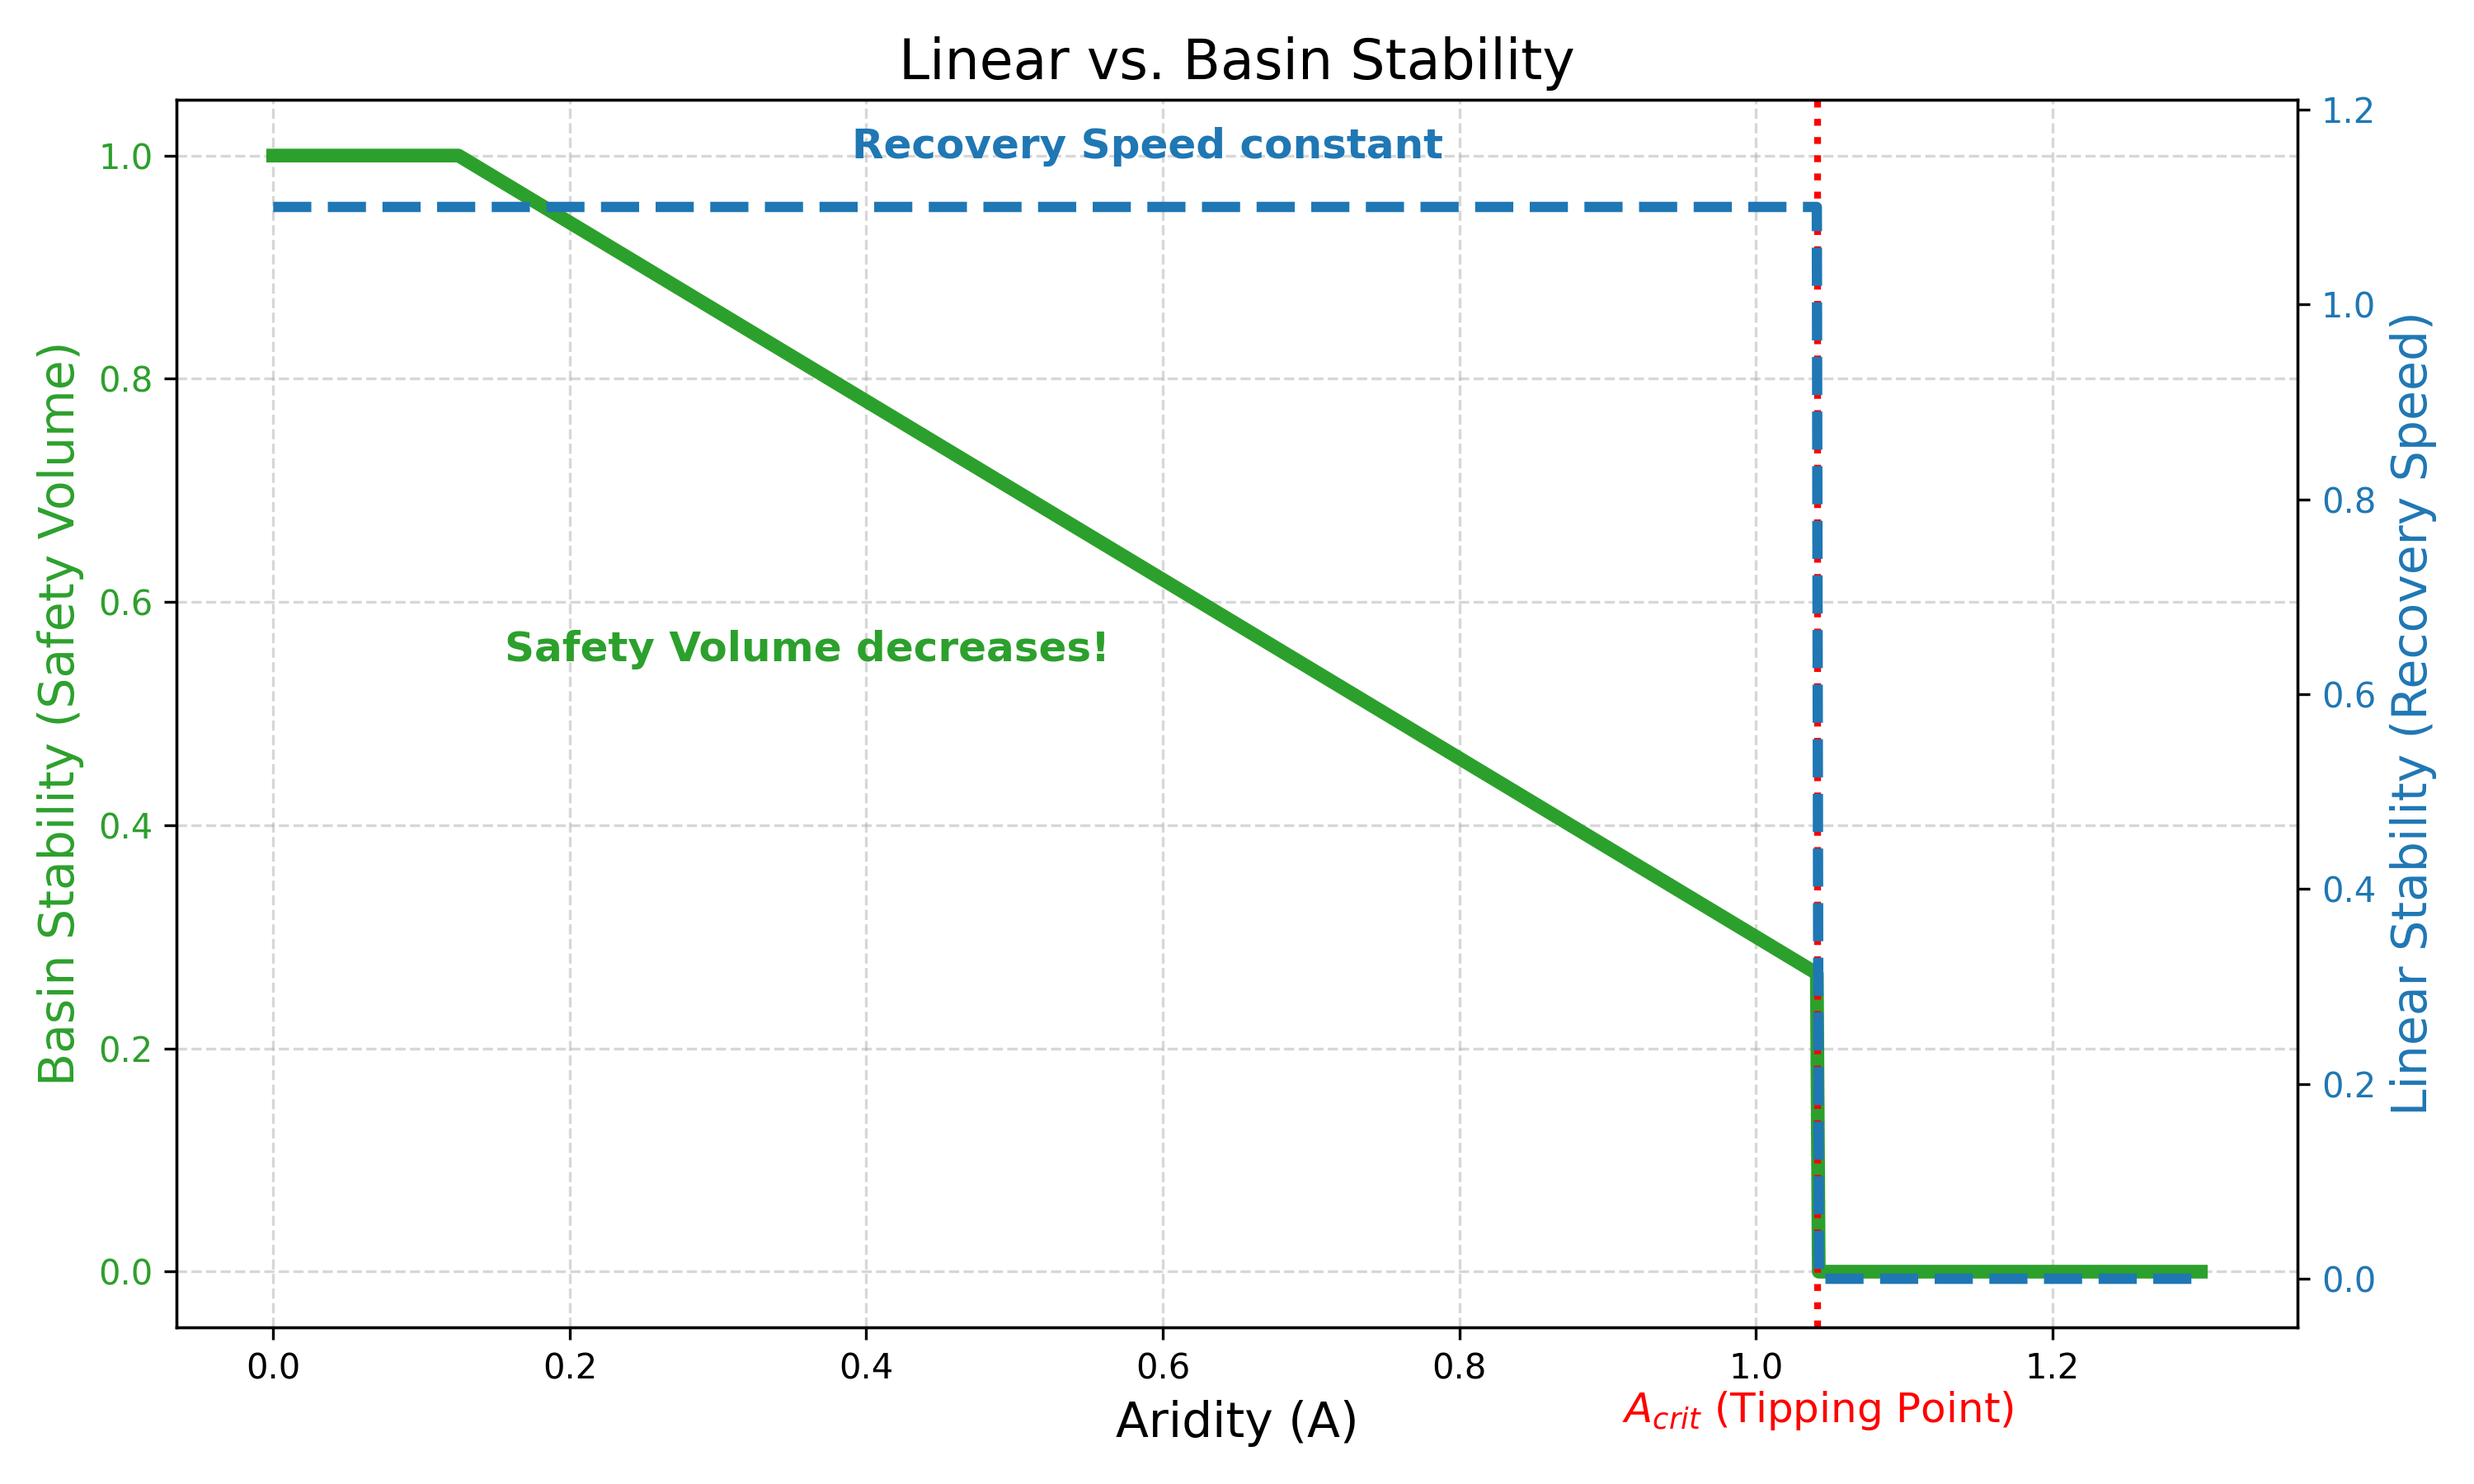
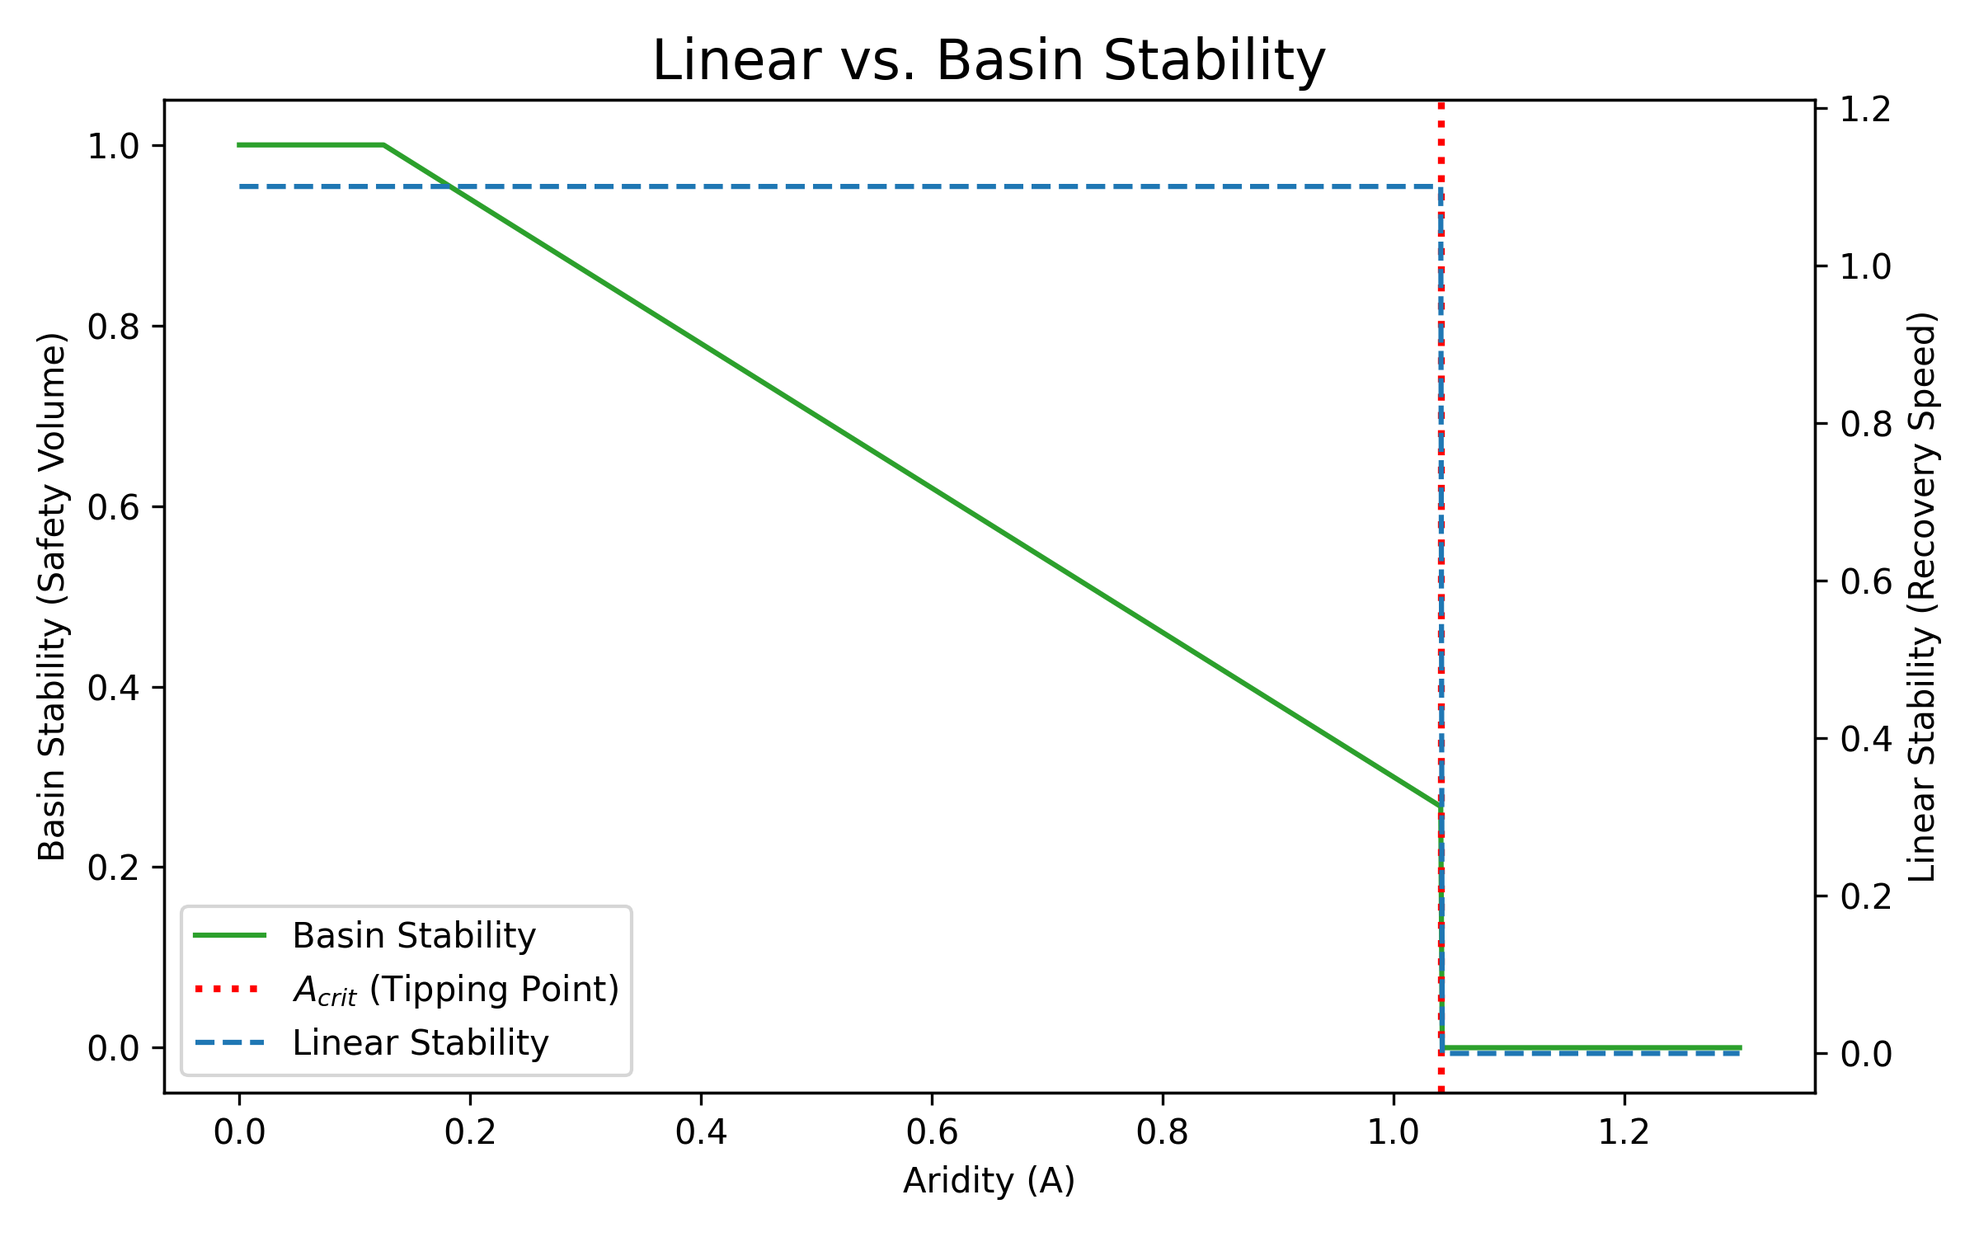
Linear v Basin Plot wie den Rest

diff --git a/src/main.py b/src/main.py
@@ -148,7 +148,7 @@ def make_plot_potential(A_range,C,func_crit,func_potential,A_crit,C_F,colors,xla
     ax.axvline(0, linestyle='--',color='black')
 
     xticks = list(ax.get_xticks()) + [0.0, C_F]
-    xlabels = [*ax.get_xticklabels(), r"$C_S=$"+format(0.0,".1f"), r"$C_F=$"+format(C_F,".1f")]
+    xlabels = [*ax.get_xticklabels(), r"$C_S=$"+format(0.0,".2f"), r"$C_F=$"+format(C_F,".2f")]
  
     ax.set_xticks(xticks, xlabels, rotation=35)
     ax.set_xlim(-3e-2,1)
@@ -167,54 +167,57 @@ def make_plot_potential(A_range,C,func_crit,func_potential,A_crit,C_F,colors,xla
 
 def make_plot_basin_vs_linear_stability(A, basin_stability, linear_stability, A_crit):
     """comparison of basin and linear stability with 2 y-axes"""
-    fig, ax1 = plt.subplots(figsize=(10, 6))
+    fig, ax1 = plt.subplots(figsize=(8, 5))
 
     # Axis 1 (left): Basin Stability (green)
     color = 'tab:green'
-    ax1.set_xlabel('Aridity (A)', fontsize=14)
-    ax1.set_ylabel('Basin Stability (Safety Volume)', color=color, fontsize=14)
-    ax1.plot(A, basin_stability, color=color, linewidth=4, label='Basin Stability')
-    ax1.tick_params(axis='y', labelcolor=color)
+    ax1.set_xlabel('Aridity (A)',)
+    ax1.set_ylabel('Basin Stability (Safety Volume)')
+    ax1.plot(A, basin_stability, color=color, label='Basin Stability')
+    # ax1.tick_params(axis='y', labelcolor=color)
     ax1.set_ylim(-0.05, 1.05)
 
     # Axis 2 (right): Linear Stability (blue)
     ax2 = ax1.twinx()  
     color = 'tab:blue'
-    ax2.set_ylabel('Linear Stability (Recovery Speed)', color=color, fontsize=14)
-    ax2.plot(A, linear_stability, color=color, linestyle='--', linewidth=3, label='Linear Stability')
-    ax2.tick_params(axis='y', labelcolor=color)
-    ax2.set_ylim(-0.05, 1.05) 
+    ax2.set_ylabel('Linear Stability (Recovery Speed)')
+    ax2.plot(A, linear_stability, color=color, linestyle='--', label='Linear Stability')
+    # ax2.tick_params(axis='y', labelcolor=color)
+    # ax2.set_ylim(-0.05, 1.05) 
     max_val = np.max(linear_stability)
     top_limit = max(1.05, max_val * 1.1) 
     ax2.set_ylim(-0.05, top_limit)
 
     # Markierungen
-    ax1.axvline(x=A_crit, color='red', linestyle=':', linewidth=2)
-    ax1.text(A_crit, -0.05, r'$A_{crit}$ (Tipping Point)', color='red', ha='center', va='top', 
-         transform=ax1.get_xaxis_transform(), fontsize=12)
+    ax1.axvline(x=A_crit, color='red', linestyle=':', linewidth=2, label=r'$A_{crit}$ (Tipping Point)')
+    # ax1.text(A_crit, -0.05, r'$A_{crit}$ (Tipping Point)', color='red', ha='center', va='top', 
+    #      transform=ax1.get_xaxis_transform(), fontsize=12)
 
-    # --- DYNAMISCHE TEXT-PLATZIERUNG ---
-    # 1. Linear Stability Text (Blau)
-    y_linear = linear_stability[0]
-    ax2.text(A[int(len(A)*0.3)], y_linear + 0.05, 
-             'Recovery Speed constant', 
-             color='tab:blue', fontweight='bold', fontsize=12, ha='left')
+    # # --- DYNAMISCHE TEXT-PLATZIERUNG ---
+    # # 1. Linear Stability Text (Blau)
+    # y_linear = linear_stability[0]
+    # ax2.text(A[int(len(A)*0.3)], y_linear + 0.05, 
+    #          'Recovery Speed constant', 
+    #          color='tab:blue', fontweight='bold', fontsize=12, ha='left')
 
-    # 2. Basin Stability Text (Grün) - DEUTLICH TIEFER
-    # Wir nehmen einen Punkt ziemlich am Anfang (15% des Weges)
-    idx_pos = np.argmin(np.abs(A - (A_crit * 0.15))) 
-    x_basin = A[idx_pos]
-    y_basin = basin_stability[idx_pos]
+    # # 2. Basin Stability Text (Grün) - DEUTLICH TIEFER
+    # # Wir nehmen einen Punkt ziemlich am Anfang (15% des Weges)
+    # idx_pos = np.argmin(np.abs(A - (A_crit * 0.15))) 
+    # x_basin = A[idx_pos]
+    # y_basin = basin_stability[idx_pos]
     
-    # Das schiebt den Text weiter in den "freien Raum" unter der Kurve
-    ax1.text(x_basin, y_basin - 0.4, 
-             'Safety Volume decreases!', 
-             color='tab:green', fontweight='bold', fontsize=12, 
-             ha='left', va='top') 
+    # # Das schiebt den Text weiter in den "freien Raum" unter der Kurve
+    # ax1.text(x_basin, y_basin - 0.4, 
+    #          'Safety Volume decreases!', 
+    #          color='tab:green', fontweight='bold', fontsize=12, 
+    #          ha='left', va='top') 
 
     # Titel und Layout
     plt.title('Linear vs. Basin Stability', fontsize=16)
-    ax1.grid(True, linestyle='--', alpha=0.5)
+    # ax1.grid(True, linestyle='--', alpha=0.5)
+    lines1, labels1 = ax1.get_legend_handles_labels()
+    lines2, labels2 = ax2.get_legend_handles_labels()
+    ax1.legend(lines1 + lines2, labels1 + labels2,)
     fig.tight_layout()
     
     return fig, (ax1, ax2)
